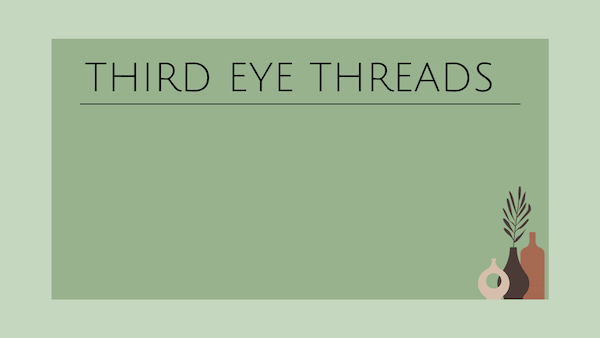
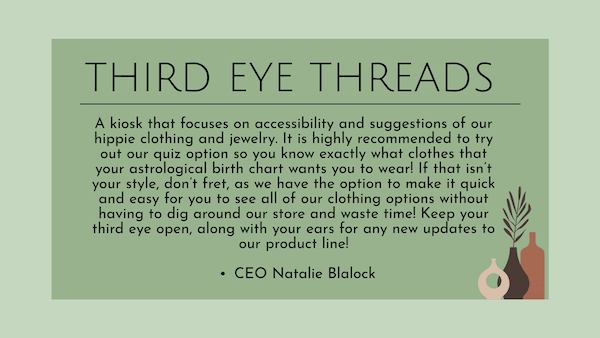
added new thumbs

Changed region(s): [[0.15, 0.355, 0.84, 0.7396], [0.39, 0.7692, 0.63, 0.8284]]

diff --git a/terms/current/index.html b/terms/current/index.html
@@ -31,6 +31,7 @@
 
     .grid-2 {
       grid-template-columns: 2fr 1fr;
+      grid-column-gap: 1rem;
     }
   </style>
 </head>
@@ -228,7 +229,7 @@
         p2Name: 'Boba & Beans',
         p2Fig: 'https://www.figma.com/design/jxKJuJRMvHTJXKDHYlLfpz/Jason-Li-Project-2-DES140?node-id=1-5&t=a1aOSvy8n56Co0Th-1',
         p2Link: 'https://www.figma.com/proto/jxKJuJRMvHTJXKDHYlLfpz/Jason-Li-Project-2-DES140?node-id=1-5&t=7bvJY2ypWPSCePZa-1',
-        p2Thumb: '',
+        p2Thumb: 'jason-boba-n-beans.png',
       },
       {
         name: 'Kat Cramer',
@@ -319,7 +320,7 @@
         p2Name: 'Personality Quiz Kiosk',
         p2Fig: 'https://www.figma.com/design/ksNIhQNPmFzFxW5BVGGJKr/Natalie-Blalock--Project-2-Kiosk--DES140?node-id=1-7&t=G5SGjBxX8XRAIyEp-1',
         p2Link: 'https://www.figma.com/proto/ksNIhQNPmFzFxW5BVGGJKr/Natalie-Blalock--Project-2-Kiosk--DES140?node-id=244-916&t=tygg7x2wB3FHTF1w-1',
-        p2Thumb: 'natalie-third-eye.png',
+        p2Thumb: 'natalie-blalock-thirdeye.png',
       },
       {
         name: 'Nell Miller',

diff --git a/css/style.css b/css/style.css
@@ -456,8 +456,6 @@ div.home-card {
   margin-bottom: -4px;
 }
 
-.student-list {}
-
 #the-list li {
   margin-bottom: 20px;
 }
@@ -467,7 +465,7 @@ div.home-card {
 }
 
 #the-list img {
-  max-width: 50%;
+  max-width: 75%;
 }
 
 .glossary {